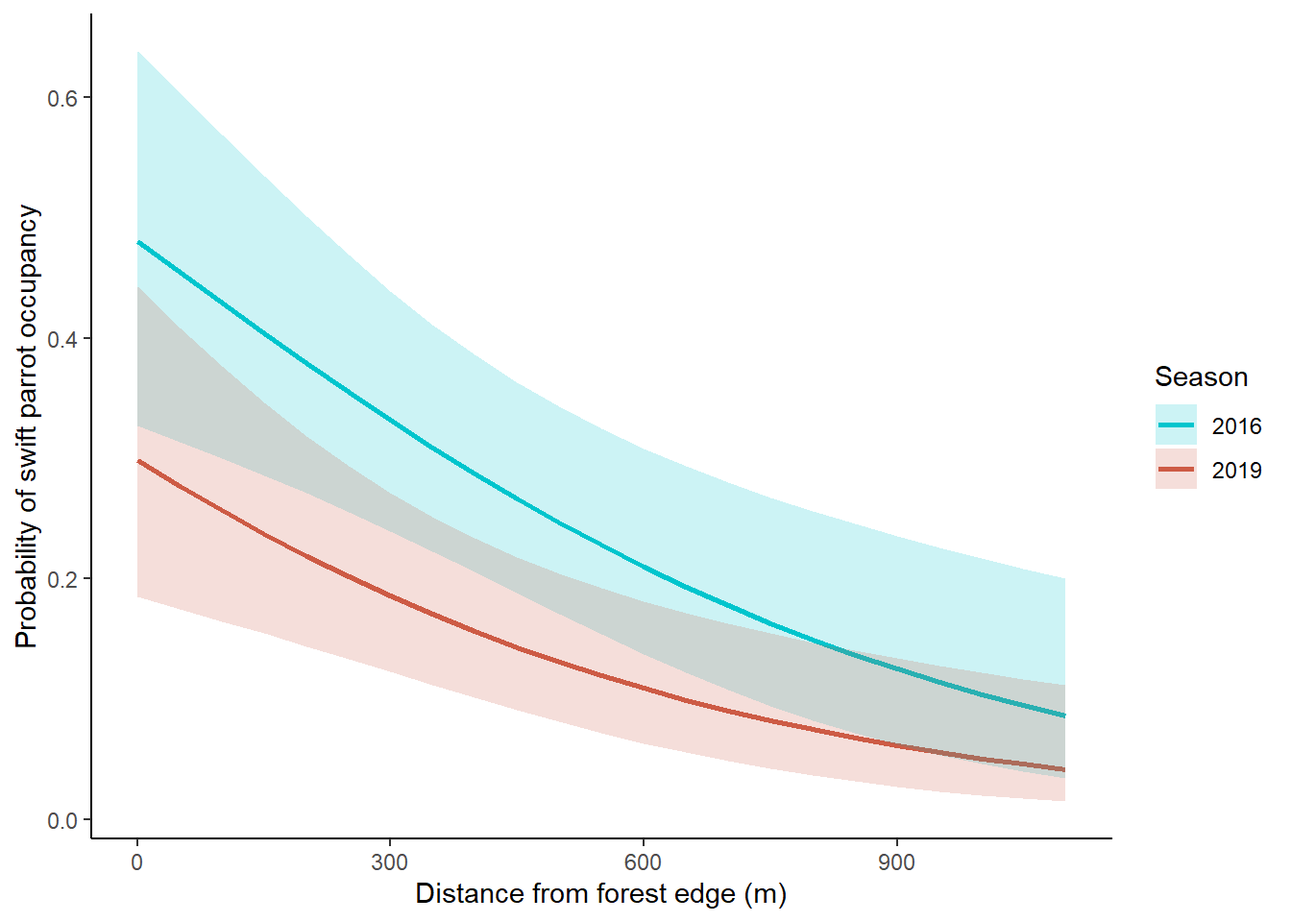
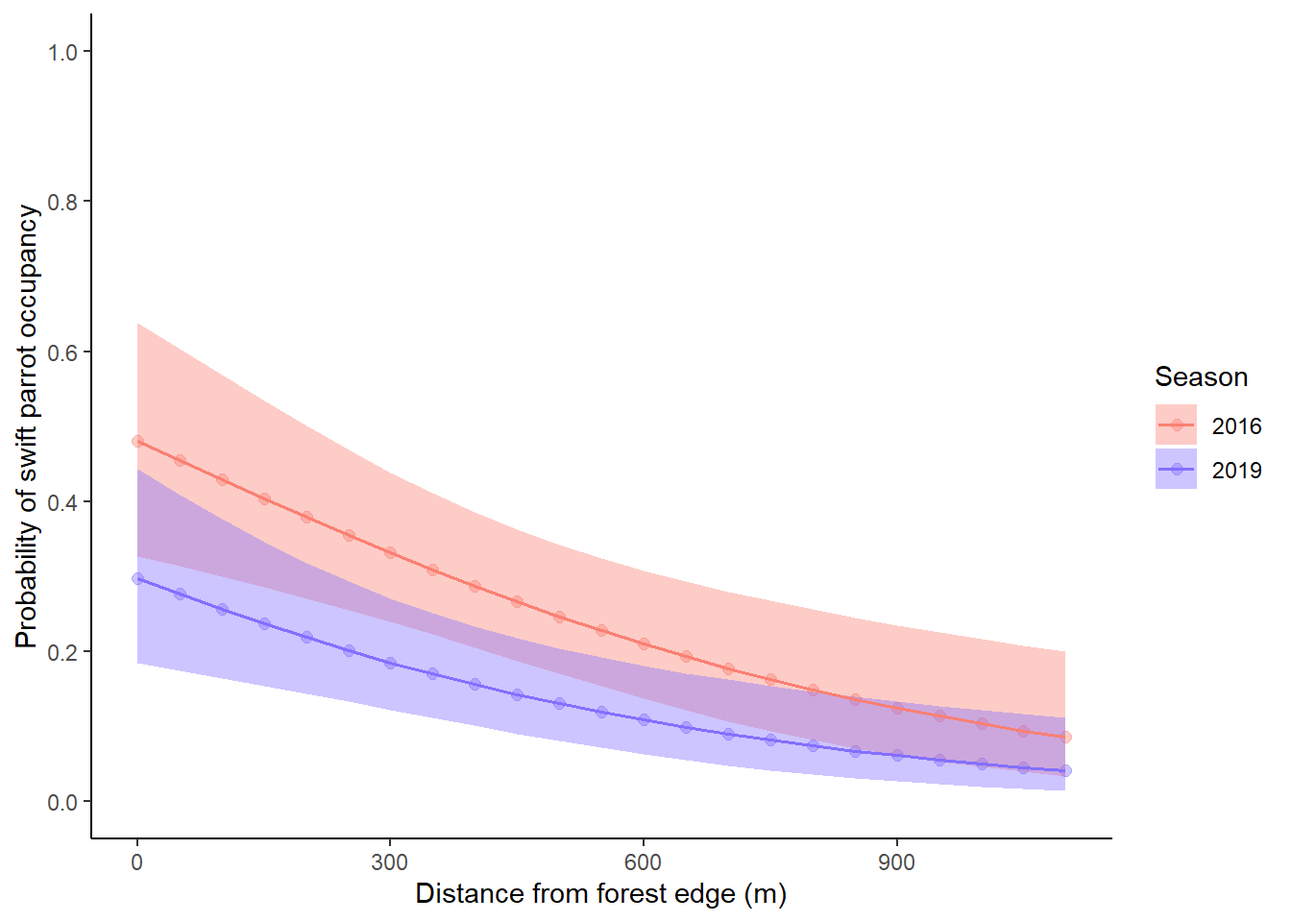
might have screwed something up.. had to restart rstudio. added intepretition and played with table outputs. fingers crossed.

diff --git a/code/ENVS-193DS_final.html b/code/ENVS-193DS_final.html
@@ -69,6 +69,10 @@ pre > code.sourceCode > span > a:first-child::before { text-decoration: underlin
 <script src="ENVS-193DS_final_files/libs/bootstrap/bootstrap.min.js"></script>
 <link href="ENVS-193DS_final_files/libs/bootstrap/bootstrap-icons.css" rel="stylesheet">
 <link href="ENVS-193DS_final_files/libs/bootstrap/bootstrap-1bc8a17f135ab3d594c857e9f48e611b.min.css" rel="stylesheet" append-hash="true" id="quarto-bootstrap" data-mode="light">
+<link href="ENVS-193DS_final_files/libs/tabwid-1.1.3/tabwid.css" rel="stylesheet">
+
+<script src="ENVS-193DS_final_files/libs/tabwid-1.1.3/tabwid.js"></script>
+
 
 
 </head>
@@ -103,9 +107,11 @@ pre > code.sourceCode > span > a:first-child::before { text-decoration: underlin
   </ul></li>
   <li><a href="#e.-run-the-models" id="toc-e.-run-the-models" class="nav-link" data-scroll-target="#e.-run-the-models">e. Run the models</a></li>
   <li><a href="#f.-check-the-diagnostics" id="toc-f.-check-the-diagnostics" class="nav-link" data-scroll-target="#f.-check-the-diagnostics">f.&nbsp;Check the diagnostics</a></li>
-  <li><a href="#e.-select-the-best-model" id="toc-e.-select-the-best-model" class="nav-link" data-scroll-target="#e.-select-the-best-model">e. Select the best model</a></li>
-  <li><a href="#visualize-the-model-predictions" id="toc-visualize-the-model-predictions" class="nav-link" data-scroll-target="#visualize-the-model-predictions">Visualize the model predictions</a></li>
-  <li><a href="#final-figure" id="toc-final-figure" class="nav-link" data-scroll-target="#final-figure">6. Final figure</a></li>
+  <li><a href="#g.-select-the-best-model" id="toc-g.-select-the-best-model" class="nav-link" data-scroll-target="#g.-select-the-best-model">g. Select the best model</a></li>
+  <li><a href="#h.-visualize-the-model-predictions" id="toc-h.-visualize-the-model-predictions" class="nav-link" data-scroll-target="#h.-visualize-the-model-predictions">h. Visualize the model predictions</a></li>
+  <li><a href="#i.-write-a-caption-for-your-figure." id="toc-i.-write-a-caption-for-your-figure." class="nav-link" data-scroll-target="#i.-write-a-caption-for-your-figure.">i. Write a caption for your figure.</a></li>
+  <li><a href="#j.-calculate-model-predictions" id="toc-j.-calculate-model-predictions" class="nav-link" data-scroll-target="#j.-calculate-model-predictions">j. Calculate model predictions</a></li>
+  <li><a href="#k.-intepret-your-results" id="toc-k.-intepret-your-results" class="nav-link" data-scroll-target="#k.-intepret-your-results">k. Intepret your results</a></li>
   </ul></li>
   </ul>
 </nav>
@@ -153,21 +159,23 @@ pre > code.sourceCode > span > a:first-child::before { text-decoration: underlin
 <span id="cb1-6"><a href="#cb1-6" aria-hidden="true" tabindex="-1"></a><span class="fu">library</span>(readxl)      <span class="co"># Read Excel files</span></span>
 <span id="cb1-7"><a href="#cb1-7" aria-hidden="true" tabindex="-1"></a><span class="fu">library</span>(scales)      <span class="co"># Customize axis labels</span></span>
 <span id="cb1-8"><a href="#cb1-8" aria-hidden="true" tabindex="-1"></a><span class="fu">library</span>(ggeffects)   <span class="co"># For model predictions</span></span>
-<span id="cb1-9"><a href="#cb1-9" aria-hidden="true" tabindex="-1"></a><span class="fu">library</span>(ggthemes)</span>
+<span id="cb1-9"><a href="#cb1-9" aria-hidden="true" tabindex="-1"></a><span class="fu">library</span>(ggthemes)    <span class="co"># For additional themes</span></span>
 <span id="cb1-10"><a href="#cb1-10" aria-hidden="true" tabindex="-1"></a><span class="fu">library</span>(flextable)   <span class="co"># Creates tables </span></span>
-<span id="cb1-11"><a href="#cb1-11" aria-hidden="true" tabindex="-1"></a><span class="fu">library</span>(rstatix)     <span class="co"># Easy statistical tests</span></span>
-<span id="cb1-12"><a href="#cb1-12" aria-hidden="true" tabindex="-1"></a><span class="fu">library</span>(effectsize)  <span class="co"># Calculate effect sizes</span></span>
-<span id="cb1-13"><a href="#cb1-13" aria-hidden="true" tabindex="-1"></a><span class="fu">library</span>(lubridate)   <span class="co"># To work with dates</span></span>
-<span id="cb1-14"><a href="#cb1-14" aria-hidden="true" tabindex="-1"></a><span class="fu">library</span>(paletteer)   <span class="co"># Color package</span></span>
-<span id="cb1-15"><a href="#cb1-15" aria-hidden="true" tabindex="-1"></a><span class="fu">library</span>(DHARMa)</span>
-<span id="cb1-16"><a href="#cb1-16" aria-hidden="true" tabindex="-1"></a><span class="fu">library</span>(MuMIn)  <span class="co"># model selection (be advisedL Warning message: package ‘MuMIn’ was built under R version 4.3.3 )</span></span>
-<span id="cb1-17"><a href="#cb1-17" aria-hidden="true" tabindex="-1"></a></span>
-<span id="cb1-18"><a href="#cb1-18" aria-hidden="true" tabindex="-1"></a></span>
-<span id="cb1-19"><a href="#cb1-19" aria-hidden="true" tabindex="-1"></a><span class="co"># --- sea surface temperature data ---</span></span>
+<span id="cb1-11"><a href="#cb1-11" aria-hidden="true" tabindex="-1"></a><span class="fu">library</span>(gtsummary)   <span class="co"># Summary tables</span></span>
+<span id="cb1-12"><a href="#cb1-12" aria-hidden="true" tabindex="-1"></a><span class="fu">library</span>(rstatix)     <span class="co"># Easy statistical tests</span></span>
+<span id="cb1-13"><a href="#cb1-13" aria-hidden="true" tabindex="-1"></a><span class="fu">library</span>(effectsize)  <span class="co"># Calculate effect sizes</span></span>
+<span id="cb1-14"><a href="#cb1-14" aria-hidden="true" tabindex="-1"></a><span class="fu">library</span>(lubridate)   <span class="co"># To work with dates</span></span>
+<span id="cb1-15"><a href="#cb1-15" aria-hidden="true" tabindex="-1"></a><span class="fu">library</span>(paletteer)   <span class="co"># Color package</span></span>
+<span id="cb1-16"><a href="#cb1-16" aria-hidden="true" tabindex="-1"></a><span class="fu">library</span>(DHARMa)      <span class="co"># Modeling</span></span>
+<span id="cb1-17"><a href="#cb1-17" aria-hidden="true" tabindex="-1"></a><span class="fu">library</span>(modelsummary)<span class="co"># Modeling multiple models</span></span>
+<span id="cb1-18"><a href="#cb1-18" aria-hidden="true" tabindex="-1"></a><span class="fu">library</span>(MuMIn)       <span class="co"># Model selection (be advisedL Warning message: package ‘MuMIn’ was built under R version 4.3.3 )</span></span>
+<span id="cb1-19"><a href="#cb1-19" aria-hidden="true" tabindex="-1"></a></span>
 <span id="cb1-20"><a href="#cb1-20" aria-hidden="true" tabindex="-1"></a></span>
-<span id="cb1-21"><a href="#cb1-21" aria-hidden="true" tabindex="-1"></a>sst <span class="ot">&lt;-</span> <span class="fu">read_csv</span>(<span class="fu">here</span>(<span class="st">"data"</span>, <span class="st">"sst_update2023.csv"</span>))  <span class="co"># SST data CSV file</span></span>
+<span id="cb1-21"><a href="#cb1-21" aria-hidden="true" tabindex="-1"></a><span class="co"># --- sea surface temperature data ---</span></span>
 <span id="cb1-22"><a href="#cb1-22" aria-hidden="true" tabindex="-1"></a></span>
-<span id="cb1-23"><a href="#cb1-23" aria-hidden="true" tabindex="-1"></a><span class="fu">str</span>(sst)</span></code><button title="Copy to Clipboard" class="code-copy-button"><i class="bi"></i></button></pre></div>
+<span id="cb1-23"><a href="#cb1-23" aria-hidden="true" tabindex="-1"></a>sst <span class="ot">&lt;-</span> <span class="fu">read_csv</span>(<span class="fu">here</span>(<span class="st">"data"</span>, <span class="st">"sst_update2023.csv"</span>))  <span class="co"># SST data CSV file</span></span>
+<span id="cb1-24"><a href="#cb1-24" aria-hidden="true" tabindex="-1"></a></span>
+<span id="cb1-25"><a href="#cb1-25" aria-hidden="true" tabindex="-1"></a><span class="fu">str</span>(sst)</span></code><button title="Copy to Clipboard" class="code-copy-button"><i class="bi"></i></button></pre></div>
 <div class="cell-output cell-output-stdout">
 <pre><code>spc_tbl_ [291,384 × 5] (S3: spec_tbl_df/tbl_df/tbl/data.frame)
  $ date     : Date[1:291384], format: "1982-01-01" "1982-01-01" ...
@@ -294,11 +302,11 @@ pre > code.sourceCode > span > a:first-child::before { text-decoration: underlin
 <pre><code># A tibble: 5 × 3
   year  month mean_monthly_sst
   &lt;fct&gt; &lt;ord&gt;            &lt;dbl&gt;
-1 2023  Jun               16.0
-2 2022  Oct               17.9
-3 2023  Nov               16.8
-4 2019  Feb               14.1
-5 2018  May               13.6</code></pre>
+1 2018  Jun               15.5
+2 2021  Jan               13.9
+3 2023  Apr               12.4
+4 2021  Aug               17.7
+5 2019  Mar               13.6</code></pre>
 </div>
 <div class="sourceCode cell-code" id="cb12"><pre class="sourceCode r code-with-copy"><code class="sourceCode r"><span id="cb12-1"><a href="#cb12-1" aria-hidden="true" tabindex="-1"></a><span class="fu">str</span>(sst_clean) <span class="co"># View structure of new df</span></span></code><button title="Copy to Clipboard" class="code-copy-button"><i class="bi"></i></button></pre></div>
 <div class="cell-output cell-output-stdout">
@@ -492,8 +500,8 @@ pre > code.sourceCode > span > a:first-child::before { text-decoration: underlin
 </div>
 </div>
 </section>
-<section id="e.-select-the-best-model" class="level2">
-<h2 class="anchored" data-anchor-id="e.-select-the-best-model">e. Select the best model</h2>
+<section id="g.-select-the-best-model" class="level2">
+<h2 class="anchored" data-anchor-id="g.-select-the-best-model">g. Select the best model</h2>
 <div class="cell">
 <div class="sourceCode cell-code" id="cb21"><pre class="sourceCode r code-with-copy"><code class="sourceCode r"><span id="cb21-1"><a href="#cb21-1" aria-hidden="true" tabindex="-1"></a><span class="co"># Calculate AIC for each model</span></span>
 <span id="cb21-2"><a href="#cb21-2" aria-hidden="true" tabindex="-1"></a>model_aic <span class="ot">&lt;-</span> <span class="fu">AIC</span>(model0,</span>
@@ -501,7 +509,7 @@ pre > code.sourceCode > span > a:first-child::before { text-decoration: underlin
 <span id="cb21-4"><a href="#cb21-4" aria-hidden="true" tabindex="-1"></a>                  model2, </span>
 <span id="cb21-5"><a href="#cb21-5" aria-hidden="true" tabindex="-1"></a>                  model3)</span>
 <span id="cb21-6"><a href="#cb21-6" aria-hidden="true" tabindex="-1"></a></span>
-<span id="cb21-7"><a href="#cb21-7" aria-hidden="true" tabindex="-1"></a><span class="co"># Print AIC table sorted by AIC (lowest first)</span></span>
+<span id="cb21-7"><a href="#cb21-7" aria-hidden="true" tabindex="-1"></a><span class="co"># AIC table</span></span>
 <span id="cb21-8"><a href="#cb21-8" aria-hidden="true" tabindex="-1"></a>model_aic</span></code><button title="Copy to Clipboard" class="code-copy-button"><i class="bi"></i></button></pre></div>
 <div class="cell-output cell-output-stdout">
 <pre><code>       df      AIC
@@ -511,42 +519,18 @@ model2  2 236.3208
 model3  2 229.6180</code></pre>
 </div>
 </div>
-<div class="cell">
-<div class="sourceCode cell-code" id="cb23"><pre class="sourceCode r code-with-copy"><code class="sourceCode r"><span id="cb23-1"><a href="#cb23-1" aria-hidden="true" tabindex="-1"></a><span class="co"># Show summary of best model</span></span>
-<span id="cb23-2"><a href="#cb23-2" aria-hidden="true" tabindex="-1"></a><span class="fu">summary</span>(model1)</span></code><button title="Copy to Clipboard" class="code-copy-button"><i class="bi"></i></button></pre></div>
-<div class="cell-output cell-output-stdout">
-<pre><code>
-Call:
-glm(formula = swift_parrot ~ season + edge_distance, family = "binomial", 
-    data = nest_boxes_clean)
-
-Coefficients:
-                Estimate Std. Error z value Pr(&gt;|z|)    
-(Intercept)   -0.0774902  0.3293209  -0.235 0.813974    
-season2019    -0.7791985  0.3390296  -2.298 0.021544 *  
-edge_distance -0.0020782  0.0006226  -3.338 0.000843 ***
----
-Signif. codes:  0 '***' 0.001 '**' 0.01 '*' 0.05 '.' 0.1 ' ' 1
-
-(Dispersion parameter for binomial family taken to be 1)
-
-    Null deviance: 236.81  on 226  degrees of freedom
-Residual deviance: 220.21  on 224  degrees of freedom
-AIC: 226.21
-
-Number of Fisher Scoring iterations: 4</code></pre>
-</div>
-</div>
 <p><strong>Interpretation</strong></p>
 <p>The best model, based on Akaike’s Information Criterion (AIC), includes both season and distance from the forest edge (model1) as predictors of Swift Parrot nest box occupancy. This model provides the best balance of signal (meaningful information) to noise (random variation).</p>
 </section>
-<section id="visualize-the-model-predictions" class="level2">
-<h2 class="anchored" data-anchor-id="visualize-the-model-predictions">Visualize the model predictions</h2>
+<section id="h.-visualize-the-model-predictions" class="level2">
+<h2 class="anchored" data-anchor-id="h.-visualize-the-model-predictions">h. Visualize the model predictions</h2>
 <div class="cell">
-<div class="sourceCode cell-code" id="cb25"><pre class="sourceCode r code-with-copy"><code class="sourceCode r"><span id="cb25-1"><a href="#cb25-1" aria-hidden="true" tabindex="-1"></a>model1_predictions <span class="ot">&lt;-</span> <span class="fu">ggpredict</span>(model1, <span class="at">terms =</span> <span class="fu">c</span>(<span class="st">"edge_distance"</span>, <span class="st">"season"</span>))</span>
-<span id="cb25-2"><a href="#cb25-2" aria-hidden="true" tabindex="-1"></a></span>
-<span id="cb25-3"><a href="#cb25-3" aria-hidden="true" tabindex="-1"></a></span>
-<span id="cb25-4"><a href="#cb25-4" aria-hidden="true" tabindex="-1"></a><span class="fu">print</span>(model1_predictions)</span></code><button title="Copy to Clipboard" class="code-copy-button"><i class="bi"></i></button></pre></div>
+<div class="sourceCode cell-code" id="cb23"><pre class="sourceCode r code-with-copy"><code class="sourceCode r"><span id="cb23-1"><a href="#cb23-1" aria-hidden="true" tabindex="-1"></a><span class="co"># Generate predicted values and confidence intervals from model1</span></span>
+<span id="cb23-2"><a href="#cb23-2" aria-hidden="true" tabindex="-1"></a>model1_predictions <span class="ot">&lt;-</span> <span class="fu">ggpredict</span>(model1, <span class="at">terms =</span> <span class="fu">c</span>(<span class="st">"edge_distance"</span>, <span class="st">"season"</span>))</span>
+<span id="cb23-3"><a href="#cb23-3" aria-hidden="true" tabindex="-1"></a></span>
+<span id="cb23-4"><a href="#cb23-4" aria-hidden="true" tabindex="-1"></a><span class="co"># View predictions data frame to inspect its structure and values</span></span>
+<span id="cb23-5"><a href="#cb23-5" aria-hidden="true" tabindex="-1"></a></span>
+<span id="cb23-6"><a href="#cb23-6" aria-hidden="true" tabindex="-1"></a>model1_predictions</span></code><button title="Copy to Clipboard" class="code-copy-button"><i class="bi"></i></button></pre></div>
 <div class="cell-output cell-output-stdout">
 <pre><code># Predicted probabilities of swift_parrot
 
@@ -573,34 +557,39 @@ edge_distance | Predicted |     95% CI
          1100 |      0.04 | 0.01, 0.11</code></pre>
 </div>
 </div>
-</section>
-<section id="final-figure" class="level2">
-<h2 class="anchored" data-anchor-id="final-figure">6. Final figure</h2>
 <div class="cell">
-<div class="sourceCode cell-code" id="cb27"><pre class="sourceCode r code-with-copy"><code class="sourceCode r"><span id="cb27-1"><a href="#cb27-1" aria-hidden="true" tabindex="-1"></a><span class="fu">ggplot</span>(<span class="at">data =</span> model1_predictions,</span>
-<span id="cb27-2"><a href="#cb27-2" aria-hidden="true" tabindex="-1"></a>       <span class="fu">aes</span>(<span class="at">x =</span> x, </span>
-<span id="cb27-3"><a href="#cb27-3" aria-hidden="true" tabindex="-1"></a>           <span class="at">y =</span> predicted, </span>
-<span id="cb27-4"><a href="#cb27-4" aria-hidden="true" tabindex="-1"></a>           <span class="at">color =</span> group, </span>
-<span id="cb27-5"><a href="#cb27-5" aria-hidden="true" tabindex="-1"></a>           <span class="at">fill =</span> group)) <span class="sc">+</span></span>
-<span id="cb27-6"><a href="#cb27-6" aria-hidden="true" tabindex="-1"></a>  <span class="fu">geom_line</span>(<span class="at">size =</span> <span class="dv">1</span>) <span class="sc">+</span></span>
-<span id="cb27-7"><a href="#cb27-7" aria-hidden="true" tabindex="-1"></a>  </span>
-<span id="cb27-8"><a href="#cb27-8" aria-hidden="true" tabindex="-1"></a>  <span class="fu">geom_ribbon</span>(<span class="fu">aes</span>(<span class="at">ymin =</span> conf.low,</span>
-<span id="cb27-9"><a href="#cb27-9" aria-hidden="true" tabindex="-1"></a>                  <span class="at">ymax =</span> conf.high), </span>
-<span id="cb27-10"><a href="#cb27-10" aria-hidden="true" tabindex="-1"></a>              <span class="at">alpha =</span> <span class="fl">0.2</span>, </span>
-<span id="cb27-11"><a href="#cb27-11" aria-hidden="true" tabindex="-1"></a>              <span class="at">color =</span> <span class="cn">NA</span>) <span class="sc">+</span></span>
-<span id="cb27-12"><a href="#cb27-12" aria-hidden="true" tabindex="-1"></a>  <span class="fu">labs</span>(<span class="at">x =</span> <span class="st">"Distance from forest edge (m)"</span>, </span>
-<span id="cb27-13"><a href="#cb27-13" aria-hidden="true" tabindex="-1"></a>       <span class="at">y =</span> <span class="st">"Probability of swift parrot occupancy"</span>,</span>
-<span id="cb27-14"><a href="#cb27-14" aria-hidden="true" tabindex="-1"></a>       <span class="at">color =</span> <span class="st">"Season"</span>, </span>
-<span id="cb27-15"><a href="#cb27-15" aria-hidden="true" tabindex="-1"></a>       <span class="at">fill =</span> <span class="st">"Season"</span>) <span class="sc">+</span></span>
-<span id="cb27-16"><a href="#cb27-16" aria-hidden="true" tabindex="-1"></a>  <span class="fu">theme_minimal</span>() <span class="sc">+</span></span>
-<span id="cb27-17"><a href="#cb27-17" aria-hidden="true" tabindex="-1"></a>  <span class="fu">scale_color_manual</span>(<span class="at">values =</span> <span class="fu">c</span>(<span class="st">"2016"</span> <span class="ot">=</span> <span class="st">"turquoise3"</span>, <span class="st">"2019"</span> <span class="ot">=</span> <span class="st">"coral3"</span>)) <span class="sc">+</span></span>
-<span id="cb27-18"><a href="#cb27-18" aria-hidden="true" tabindex="-1"></a>  <span class="fu">scale_fill_manual</span>(<span class="at">values =</span> <span class="fu">c</span>(<span class="st">"2016"</span> <span class="ot">=</span> <span class="st">"turquoise3"</span>, <span class="st">"2019"</span> <span class="ot">=</span> <span class="st">"coral3"</span>)) <span class="sc">+</span></span>
-<span id="cb27-19"><a href="#cb27-19" aria-hidden="true" tabindex="-1"></a>   <span class="co"># Remove gridlines for a cleaner look</span></span>
-<span id="cb27-20"><a href="#cb27-20" aria-hidden="true" tabindex="-1"></a>  <span class="fu">theme_classic</span>() <span class="sc">+</span></span>
-<span id="cb27-21"><a href="#cb27-21" aria-hidden="true" tabindex="-1"></a>  <span class="fu">theme</span>(</span>
-<span id="cb27-22"><a href="#cb27-22" aria-hidden="true" tabindex="-1"></a>    <span class="at">panel.grid.major =</span> <span class="fu">element_blank</span>(),</span>
-<span id="cb27-23"><a href="#cb27-23" aria-hidden="true" tabindex="-1"></a>    <span class="at">panel.grid.minor =</span> <span class="fu">element_blank</span>()</span>
-<span id="cb27-24"><a href="#cb27-24" aria-hidden="true" tabindex="-1"></a>  )</span></code><button title="Copy to Clipboard" class="code-copy-button"><i class="bi"></i></button></pre></div>
+<div class="sourceCode cell-code" id="cb25"><pre class="sourceCode r code-with-copy"><code class="sourceCode r"><span id="cb25-1"><a href="#cb25-1" aria-hidden="true" tabindex="-1"></a><span class="fu">ggplot</span>(<span class="at">data =</span> model1_predictions,  <span class="co"># Use model predictions data frame</span></span>
+<span id="cb25-2"><a href="#cb25-2" aria-hidden="true" tabindex="-1"></a>       <span class="fu">aes</span>(<span class="at">x =</span> x,                  <span class="co"># x-axis: distance from forest edge</span></span>
+<span id="cb25-3"><a href="#cb25-3" aria-hidden="true" tabindex="-1"></a>           <span class="at">y =</span> predicted,          <span class="co"># y-axis: predicted occupancy probability</span></span>
+<span id="cb25-4"><a href="#cb25-4" aria-hidden="true" tabindex="-1"></a>           <span class="at">color =</span> group,          <span class="co"># Line color mapped to season (group)</span></span>
+<span id="cb25-5"><a href="#cb25-5" aria-hidden="true" tabindex="-1"></a>           <span class="at">fill =</span> group)) <span class="sc">+</span>        <span class="co"># Fill color (for ribbons) mapped to season</span></span>
+<span id="cb25-6"><a href="#cb25-6" aria-hidden="true" tabindex="-1"></a></span>
+<span id="cb25-7"><a href="#cb25-7" aria-hidden="true" tabindex="-1"></a>  <span class="co"># Add semi-transparent points at predicted values</span></span>
+<span id="cb25-8"><a href="#cb25-8" aria-hidden="true" tabindex="-1"></a>  <span class="fu">geom_point</span>(<span class="at">size =</span> <span class="dv">2</span>, <span class="at">alpha =</span> <span class="fl">0.4</span>) <span class="sc">+</span>  </span>
+<span id="cb25-9"><a href="#cb25-9" aria-hidden="true" tabindex="-1"></a>  </span>
+<span id="cb25-10"><a href="#cb25-10" aria-hidden="true" tabindex="-1"></a>  <span class="co"># Add shaded confidence interval ribbon for each season</span></span>
+<span id="cb25-11"><a href="#cb25-11" aria-hidden="true" tabindex="-1"></a>  <span class="fu">geom_ribbon</span>(<span class="at">data =</span> model1_predictions,  </span>
+<span id="cb25-12"><a href="#cb25-12" aria-hidden="true" tabindex="-1"></a>              <span class="fu">aes</span>(<span class="at">ymin =</span> conf.low, <span class="at">ymax =</span> conf.high),  <span class="co"># Confidence bounds</span></span>
+<span id="cb25-13"><a href="#cb25-13" aria-hidden="true" tabindex="-1"></a>              <span class="at">alpha =</span> <span class="fl">0.4</span>, <span class="at">color =</span> <span class="cn">NA</span>) <span class="sc">+</span>  <span class="co"># No border around ribbons</span></span>
+<span id="cb25-14"><a href="#cb25-14" aria-hidden="true" tabindex="-1"></a>  </span>
+<span id="cb25-15"><a href="#cb25-15" aria-hidden="true" tabindex="-1"></a>  <span class="co"># Add prediction lines for each season</span></span>
+<span id="cb25-16"><a href="#cb25-16" aria-hidden="true" tabindex="-1"></a>  <span class="fu">geom_line</span>(<span class="at">size =</span> <span class="fl">0.7</span>) <span class="sc">+</span>  </span>
+<span id="cb25-17"><a href="#cb25-17" aria-hidden="true" tabindex="-1"></a></span>
+<span id="cb25-18"><a href="#cb25-18" aria-hidden="true" tabindex="-1"></a>  <span class="co"># Add axis labels and legend titles</span></span>
+<span id="cb25-19"><a href="#cb25-19" aria-hidden="true" tabindex="-1"></a>  <span class="fu">labs</span>(<span class="at">x =</span> <span class="st">"Distance from forest edge (m)"</span>,   </span>
+<span id="cb25-20"><a href="#cb25-20" aria-hidden="true" tabindex="-1"></a>       <span class="at">y =</span> <span class="st">"Probability of swift parrot occupancy"</span>,  </span>
+<span id="cb25-21"><a href="#cb25-21" aria-hidden="true" tabindex="-1"></a>       <span class="at">color =</span> <span class="st">"Season"</span>,                      </span>
+<span id="cb25-22"><a href="#cb25-22" aria-hidden="true" tabindex="-1"></a>       <span class="at">fill =</span> <span class="st">"Season"</span>) <span class="sc">+</span>                     </span>
+<span id="cb25-23"><a href="#cb25-23" aria-hidden="true" tabindex="-1"></a></span>
+<span id="cb25-24"><a href="#cb25-24" aria-hidden="true" tabindex="-1"></a>  <span class="co"># Manually set custom colors for seasons (to match paper styling)</span></span>
+<span id="cb25-25"><a href="#cb25-25" aria-hidden="true" tabindex="-1"></a>  <span class="fu">scale_color_manual</span>(<span class="at">values =</span> <span class="fu">c</span>(<span class="st">"2016"</span> <span class="ot">=</span> <span class="st">"salmon"</span>, <span class="st">"2019"</span> <span class="ot">=</span> <span class="st">"slateblue1"</span>)) <span class="sc">+</span>  </span>
+<span id="cb25-26"><a href="#cb25-26" aria-hidden="true" tabindex="-1"></a>  <span class="fu">scale_fill_manual</span>(<span class="at">values =</span> <span class="fu">c</span>(<span class="st">"2016"</span> <span class="ot">=</span> <span class="st">"salmon"</span>, <span class="st">"2019"</span> <span class="ot">=</span> <span class="st">"slateblue1"</span>)) <span class="sc">+</span>   </span>
+<span id="cb25-27"><a href="#cb25-27" aria-hidden="true" tabindex="-1"></a></span>
+<span id="cb25-28"><a href="#cb25-28" aria-hidden="true" tabindex="-1"></a>  <span class="co"># Set y-axis limits and create evenly spaced tick marks</span></span>
+<span id="cb25-29"><a href="#cb25-29" aria-hidden="true" tabindex="-1"></a>  <span class="fu">scale_y_continuous</span>(<span class="at">limits =</span> <span class="fu">c</span>(<span class="dv">0</span>, <span class="dv">1</span>), <span class="at">breaks =</span> <span class="fu">seq</span>(<span class="dv">0</span>, <span class="dv">1</span>, <span class="fl">0.2</span>)) <span class="sc">+</span>  </span>
+<span id="cb25-30"><a href="#cb25-30" aria-hidden="true" tabindex="-1"></a></span>
+<span id="cb25-31"><a href="#cb25-31" aria-hidden="true" tabindex="-1"></a>  <span class="co"># Use a clean, minimal theme without gridlines</span></span>
+<span id="cb25-32"><a href="#cb25-32" aria-hidden="true" tabindex="-1"></a>  <span class="fu">theme_classic</span>()</span></code><button title="Copy to Clipboard" class="code-copy-button"><i class="bi"></i></button></pre></div>
 <div class="cell-output-display">
 <div>
 <figure class="figure">
@@ -609,6 +598,46 @@ edge_distance | Predicted |     95% CI
 </div>
 </div>
 </div>
+</section>
+<section id="i.-write-a-caption-for-your-figure." class="level2">
+<h2 class="anchored" data-anchor-id="i.-write-a-caption-for-your-figure.">i. Write a caption for your figure.</h2>
+<p><strong>Figure 1.</strong> Predicted probabilities and 95% confidence intervals from the best model of nest box occupancy by Swift Parrots, the target species of the restoration effort. The plot shows how the probability of occupancy changes with distance from the forest edge and between study years (2016 and 2019). Occupancy probability decreases with increasing distance from the forest edge and from 2016 to 2019. <em>Data source:</em> Stojanovic et al.&nbsp;(2021), Restoration Ecology (DOI: 10.1111/rec.13319)</p>
+</section>
+<section id="j.-calculate-model-predictions" class="level2">
+<h2 class="anchored" data-anchor-id="j.-calculate-model-predictions">j. Calculate model predictions</h2>
+<div class="cell">
+<div class="sourceCode cell-code" id="cb26"><pre class="sourceCode r code-with-copy"><code class="sourceCode r"><span id="cb26-1"><a href="#cb26-1" aria-hidden="true" tabindex="-1"></a><span class="co"># Predicted probabilities at 0 m and 900 m for each season</span></span>
+<span id="cb26-2"><a href="#cb26-2" aria-hidden="true" tabindex="-1"></a></span>
+<span id="cb26-3"><a href="#cb26-3" aria-hidden="true" tabindex="-1"></a>predictions_specific <span class="ot">&lt;-</span> <span class="fu">ggpredict</span>(model1, </span>
+<span id="cb26-4"><a href="#cb26-4" aria-hidden="true" tabindex="-1"></a>                                  <span class="at">terms =</span> <span class="fu">c</span>(<span class="st">"edge_distance [0,900]"</span>, <span class="st">"season"</span>))</span>
+<span id="cb26-5"><a href="#cb26-5" aria-hidden="true" tabindex="-1"></a></span>
+<span id="cb26-6"><a href="#cb26-6" aria-hidden="true" tabindex="-1"></a> </span>
+<span id="cb26-7"><a href="#cb26-7" aria-hidden="true" tabindex="-1"></a>preds_table <span class="ot">&lt;-</span> <span class="fu">as.data.frame</span>(predictions_specific) <span class="sc">|&gt;</span> <span class="co"># Convert to df</span></span>
+<span id="cb26-8"><a href="#cb26-8" aria-hidden="true" tabindex="-1"></a> <span class="fu">rename</span>(           <span class="co"># Rename columns</span></span>
+<span id="cb26-9"><a href="#cb26-9" aria-hidden="true" tabindex="-1"></a>    <span class="st">`</span><span class="at">Edge Distance (m)</span><span class="st">`</span> <span class="ot">=</span> x,</span>
+<span id="cb26-10"><a href="#cb26-10" aria-hidden="true" tabindex="-1"></a>    <span class="at">Season =</span> group,</span>
+<span id="cb26-11"><a href="#cb26-11" aria-hidden="true" tabindex="-1"></a>    <span class="st">`</span><span class="at">Predicted Probability</span><span class="st">`</span> <span class="ot">=</span> predicted,</span>
+<span id="cb26-12"><a href="#cb26-12" aria-hidden="true" tabindex="-1"></a>    <span class="st">'Standard Error'</span> <span class="ot">=</span> std.error,</span>
+<span id="cb26-13"><a href="#cb26-13" aria-hidden="true" tabindex="-1"></a>    <span class="st">`</span><span class="at">95% CI Lower</span><span class="st">`</span> <span class="ot">=</span> conf.low,</span>
+<span id="cb26-14"><a href="#cb26-14" aria-hidden="true" tabindex="-1"></a>    <span class="st">`</span><span class="at">95% CI Upper</span><span class="st">`</span> <span class="ot">=</span> conf.high</span>
+<span id="cb26-15"><a href="#cb26-15" aria-hidden="true" tabindex="-1"></a>  ) <span class="sc">|&gt;</span> </span>
+<span id="cb26-16"><a href="#cb26-16" aria-hidden="true" tabindex="-1"></a>   <span class="fu">mutate</span>(<span class="fu">across</span>(<span class="fu">where</span>(is.numeric), <span class="sc">~</span> <span class="fu">round</span>(.x, <span class="dv">3</span>)))  <span class="co"># Round to 3 decimals</span></span>
+<span id="cb26-17"><a href="#cb26-17" aria-hidden="true" tabindex="-1"></a></span>
+<span id="cb26-18"><a href="#cb26-18" aria-hidden="true" tabindex="-1"></a></span>
+<span id="cb26-19"><a href="#cb26-19" aria-hidden="true" tabindex="-1"></a><span class="co"># Create flextable </span></span>
+<span id="cb26-20"><a href="#cb26-20" aria-hidden="true" tabindex="-1"></a></span>
+<span id="cb26-21"><a href="#cb26-21" aria-hidden="true" tabindex="-1"></a><span class="fu">flextable</span>(preds_table) <span class="sc">|&gt;</span></span>
+<span id="cb26-22"><a href="#cb26-22" aria-hidden="true" tabindex="-1"></a>  <span class="fu">set_caption</span>(<span class="st">"Table 1. Predicted probabilities of Swift Parrot nest box occupancy at 0 m and 900 m from forest edge by season."</span>) <span class="sc">|&gt;</span>  <span class="co"># Add title</span></span>
+<span id="cb26-23"><a href="#cb26-23" aria-hidden="true" tabindex="-1"></a>  <span class="fu">autofit</span>() <span class="co"># Fits nicer</span></span></code><button title="Copy to Clipboard" class="code-copy-button"><i class="bi"></i></button></pre></div>
+<div class="cell-output-display">
+<div class="tabwid"><style>.cl-29e4a824{}.cl-29dc22ee{font-family:'Arial';font-size:11pt;font-weight:normal;font-style:normal;text-decoration:none;color:rgba(0, 0, 0, 1.00);background-color:transparent;}.cl-29df938e{margin:0;text-align:right;border-bottom: 0 solid rgba(0, 0, 0, 1.00);border-top: 0 solid rgba(0, 0, 0, 1.00);border-left: 0 solid rgba(0, 0, 0, 1.00);border-right: 0 solid rgba(0, 0, 0, 1.00);padding-bottom:5pt;padding-top:5pt;padding-left:5pt;padding-right:5pt;line-height: 1;background-color:transparent;}.cl-29df9398{margin:0;text-align:left;border-bottom: 0 solid rgba(0, 0, 0, 1.00);border-top: 0 solid rgba(0, 0, 0, 1.00);border-left: 0 solid rgba(0, 0, 0, 1.00);border-right: 0 solid rgba(0, 0, 0, 1.00);padding-bottom:5pt;padding-top:5pt;padding-left:5pt;padding-right:5pt;line-height: 1;background-color:transparent;}.cl-29dfb1f2{width:1.55in;background-color:transparent;vertical-align: middle;border-bottom: 1.5pt solid rgba(102, 102, 102, 1.00);border-top: 1.5pt solid rgba(102, 102, 102, 1.00);border-left: 0 solid rgba(0, 0, 0, 1.00);border-right: 0 solid rgba(0, 0, 0, 1.00);margin-bottom:0;margin-top:0;margin-left:0;margin-right:0;}.cl-29dfb1fc{width:1.686in;background-color:transparent;vertical-align: middle;border-bottom: 1.5pt solid rgba(102, 102, 102, 1.00);border-top: 1.5pt solid rgba(102, 102, 102, 1.00);border-left: 0 solid rgba(0, 0, 0, 1.00);border-right: 0 solid rgba(0, 0, 0, 1.00);margin-bottom:0;margin-top:0;margin-left:0;margin-right:0;}.cl-29dfb1fd{width:1.287in;background-color:transparent;vertical-align: middle;border-bottom: 1.5pt solid rgba(102, 102, 102, 1.00);border-top: 1.5pt solid rgba(102, 102, 102, 1.00);border-left: 0 solid rgba(0, 0, 0, 1.00);border-right: 0 solid rgba(0, 0, 0, 1.00);margin-bottom:0;margin-top:0;margin-left:0;margin-right:0;}.cl-29dfb1fe{width:1.245in;background-color:transparent;vertical-align: middle;border-bottom: 1.5pt solid rgba(102, 102, 102, 1.00);border-top: 1.5pt solid rgba(102, 102, 102, 1.00);border-left: 0 solid rgba(0, 0, 0, 1.00);border-right: 0 solid rgba(0, 0, 0, 1.00);margin-bottom:0;margin-top:0;margin-left:0;margin-right:0;}.cl-29dfb206{width:0.803in;background-color:transparent;vertical-align: middle;border-bottom: 1.5pt solid rgba(102, 102, 102, 1.00);border-top: 1.5pt solid rgba(102, 102, 102, 1.00);border-left: 0 solid rgba(0, 0, 0, 1.00);border-right: 0 solid rgba(0, 0, 0, 1.00);margin-bottom:0;margin-top:0;margin-left:0;margin-right:0;}.cl-29dfb210{width:1.55in;background-color:transparent;vertical-align: middle;border-bottom: 0 solid rgba(0, 0, 0, 1.00);border-top: 0 solid rgba(0, 0, 0, 1.00);border-left: 0 solid rgba(0, 0, 0, 1.00);border-right: 0 solid rgba(0, 0, 0, 1.00);margin-bottom:0;margin-top:0;margin-left:0;margin-right:0;}.cl-29dfb21a{width:1.686in;background-color:transparent;vertical-align: middle;border-bottom: 0 solid rgba(0, 0, 0, 1.00);border-top: 0 solid rgba(0, 0, 0, 1.00);border-left: 0 solid rgba(0, 0, 0, 1.00);border-right: 0 solid rgba(0, 0, 0, 1.00);margin-bottom:0;margin-top:0;margin-left:0;margin-right:0;}.cl-29dfb21b{width:1.287in;background-color:transparent;vertical-align: middle;border-bottom: 0 solid rgba(0, 0, 0, 1.00);border-top: 0 solid rgba(0, 0, 0, 1.00);border-left: 0 solid rgba(0, 0, 0, 1.00);border-right: 0 solid rgba(0, 0, 0, 1.00);margin-bottom:0;margin-top:0;margin-left:0;margin-right:0;}.cl-29dfb21c{width:1.245in;background-color:transparent;vertical-align: middle;border-bottom: 0 solid rgba(0, 0, 0, 1.00);border-top: 0 solid rgba(0, 0, 0, 1.00);border-left: 0 solid rgba(0, 0, 0, 1.00);border-right: 0 solid rgba(0, 0, 0, 1.00);margin-bottom:0;margin-top:0;margin-left:0;margin-right:0;}.cl-29dfb21d{width:0.803in;background-color:transparent;vertical-align: middle;border-bottom: 0 solid rgba(0, 0, 0, 1.00);border-top: 0 solid rgba(0, 0, 0, 1.00);border-left: 0 solid rgba(0, 0, 0, 1.00);border-right: 0 solid rgba(0, 0, 0, 1.00);margin-bottom:0;margin-top:0;margin-left:0;margin-right:0;}.cl-29dfb224{width:1.55in;background-color:transparent;vertical-align: middle;border-bottom: 1.5pt solid rgba(102, 102, 102, 1.00);border-top: 0 solid rgba(0, 0, 0, 1.00);border-left: 0 solid rgba(0, 0, 0, 1.00);border-right: 0 solid rgba(0, 0, 0, 1.00);margin-bottom:0;margin-top:0;margin-left:0;margin-right:0;}.cl-29dfb225{width:1.686in;background-color:transparent;vertical-align: middle;border-bottom: 1.5pt solid rgba(102, 102, 102, 1.00);border-top: 0 solid rgba(0, 0, 0, 1.00);border-left: 0 solid rgba(0, 0, 0, 1.00);border-right: 0 solid rgba(0, 0, 0, 1.00);margin-bottom:0;margin-top:0;margin-left:0;margin-right:0;}.cl-29dfb22e{width:1.287in;background-color:transparent;vertical-align: middle;border-bottom: 1.5pt solid rgba(102, 102, 102, 1.00);border-top: 0 solid rgba(0, 0, 0, 1.00);border-left: 0 solid rgba(0, 0, 0, 1.00);border-right: 0 solid rgba(0, 0, 0, 1.00);margin-bottom:0;margin-top:0;margin-left:0;margin-right:0;}.cl-29dfb22f{width:1.245in;background-color:transparent;vertical-align: middle;border-bottom: 1.5pt solid rgba(102, 102, 102, 1.00);border-top: 0 solid rgba(0, 0, 0, 1.00);border-left: 0 solid rgba(0, 0, 0, 1.00);border-right: 0 solid rgba(0, 0, 0, 1.00);margin-bottom:0;margin-top:0;margin-left:0;margin-right:0;}.cl-29dfb230{width:0.803in;background-color:transparent;vertical-align: middle;border-bottom: 1.5pt solid rgba(102, 102, 102, 1.00);border-top: 0 solid rgba(0, 0, 0, 1.00);border-left: 0 solid rgba(0, 0, 0, 1.00);border-right: 0 solid rgba(0, 0, 0, 1.00);margin-bottom:0;margin-top:0;margin-left:0;margin-right:0;}</style><table data-quarto-disable-processing="true" class="cl-29e4a824"><thead><tr style="overflow-wrap:break-word;"><th class="cl-29dfb1f2"><p class="cl-29df938e"><span class="cl-29dc22ee">Edge Distance (m)</span></p></th><th class="cl-29dfb1fc"><p class="cl-29df938e"><span class="cl-29dc22ee">Predicted Probability</span></p></th><th class="cl-29dfb1fd"><p class="cl-29df938e"><span class="cl-29dc22ee">Standard Error</span></p></th><th class="cl-29dfb1fe"><p class="cl-29df938e"><span class="cl-29dc22ee">95% CI Lower</span></p></th><th class="cl-29dfb1fe"><p class="cl-29df938e"><span class="cl-29dc22ee">95% CI Upper</span></p></th><th class="cl-29dfb206"><p class="cl-29df9398"><span class="cl-29dc22ee">Season</span></p></th></tr></thead><tbody><tr style="overflow-wrap:break-word;"><td class="cl-29dfb210"><p class="cl-29df938e"><span class="cl-29dc22ee">0</span></p></td><td class="cl-29dfb21a"><p class="cl-29df938e"><span class="cl-29dc22ee">0.481</span></p></td><td class="cl-29dfb21b"><p class="cl-29df938e"><span class="cl-29dc22ee">0.329</span></p></td><td class="cl-29dfb21c"><p class="cl-29df938e"><span class="cl-29dc22ee">0.327</span></p></td><td class="cl-29dfb21c"><p class="cl-29df938e"><span class="cl-29dc22ee">0.638</span></p></td><td class="cl-29dfb21d"><p class="cl-29df9398"><span class="cl-29dc22ee">2016</span></p></td></tr><tr style="overflow-wrap:break-word;"><td class="cl-29dfb210"><p class="cl-29df938e"><span class="cl-29dc22ee">0</span></p></td><td class="cl-29dfb21a"><p class="cl-29df938e"><span class="cl-29dc22ee">0.298</span></p></td><td class="cl-29dfb21b"><p class="cl-29df938e"><span class="cl-29dc22ee">0.321</span></p></td><td class="cl-29dfb21c"><p class="cl-29df938e"><span class="cl-29dc22ee">0.185</span></p></td><td class="cl-29dfb21c"><p class="cl-29df938e"><span class="cl-29dc22ee">0.443</span></p></td><td class="cl-29dfb21d"><p class="cl-29df9398"><span class="cl-29dc22ee">2019</span></p></td></tr><tr style="overflow-wrap:break-word;"><td class="cl-29dfb210"><p class="cl-29df938e"><span class="cl-29dc22ee">900</span></p></td><td class="cl-29dfb21a"><p class="cl-29df938e"><span class="cl-29dc22ee">0.125</span></p></td><td class="cl-29dfb21b"><p class="cl-29df938e"><span class="cl-29dc22ee">0.393</span></p></td><td class="cl-29dfb21c"><p class="cl-29df938e"><span class="cl-29dc22ee">0.062</span></p></td><td class="cl-29dfb21c"><p class="cl-29df938e"><span class="cl-29dc22ee">0.235</span></p></td><td class="cl-29dfb21d"><p class="cl-29df9398"><span class="cl-29dc22ee">2016</span></p></td></tr><tr style="overflow-wrap:break-word;"><td class="cl-29dfb224"><p class="cl-29df938e"><span class="cl-29dc22ee">900</span></p></td><td class="cl-29dfb225"><p class="cl-29df938e"><span class="cl-29dc22ee">0.061</span></p></td><td class="cl-29dfb22e"><p class="cl-29df938e"><span class="cl-29dc22ee">0.437</span></p></td><td class="cl-29dfb22f"><p class="cl-29df938e"><span class="cl-29dc22ee">0.027</span></p></td><td class="cl-29dfb22f"><p class="cl-29df938e"><span class="cl-29dc22ee">0.134</span></p></td><td class="cl-29dfb230"><p class="cl-29df9398"><span class="cl-29dc22ee">2019</span></p></td></tr></tbody></table></div>
+</div>
+</div>
+</section>
+<section id="k.-intepret-your-results" class="level2">
+<h2 class="anchored" data-anchor-id="k.-intepret-your-results">k. Intepret your results</h2>
+<p>Swift Parrots are more likely to occupy nest boxes located closer to the forest edge and showed reduced occupancy in 2019 compared to 2016 (see <em>Figure 1</em> and <em>Table 1</em>). For every 1-meter increase in distance from the forest edge, the odds of occupancy decrease by a factor of 0.998 (95% CI [1.00, 1.00], <em>p</em> &lt; 0.001). At 0 meters, the predicted probability of occupancy was 0.481 in 2016 and 0.298 in 2019, decreasing to 0.125 and 0.061, respectively, at 900 meters.</p>
+<p>These patterns suggest that the declining occupancy of Swift Parrots may be driven by increasing competition for nesting sites, particularly from invasive species such as starlings and tree martins, consistent with previous findings reported in the study.</p>
 </section>
 </section>
 

diff --git a/code/ENVS-193DS_final_files/libs/tabwid-1.1.3/tabwid.js b/code/ENVS-193DS_final_files/libs/tabwid-1.1.3/tabwid.js
@@ -1,0 +1,31 @@
+document.addEventListener("DOMContentLoaded", function(event) {
+  var els = document.querySelectorAll(".tabwid");
+  var tabwid_link = document.querySelector('link[href*="tabwid.css"]')
+  if (tabwid_link === null) {
+    const tabwid_styles = document.evaluate("//style[contains(., 'tabwid')]", document, null, XPathResult.ANY_TYPE, null );
+    tabwid_link = tabwid_styles.iterateNext();
+  }
+
+  Array.prototype.forEach.call(els, function(template) {
+      const dest = document.createElement("div");
+      template.parentNode.insertBefore(dest, template.nextSibling)
+      dest.setAttribute("class", "flextable-shadow-host");
+      const fantome = dest.attachShadow({mode: 'open'});
+      fantome.appendChild(template);
+      if (tabwid_link !== null) {
+        fantome.appendChild(tabwid_link.cloneNode(true));
+      }
+  });
+
+  const shadowHosts = document.querySelectorAll('.flextable-shadow-host:not(:has(div > table.no-shadow-dom))');
+  shadowHosts.forEach(host => {
+    if (host.shadowRoot) {
+      const spanElements = host.shadowRoot.querySelector('div > table > caption > span[id]');
+      if (spanElements) {
+        const id = spanElements.getAttribute("id");
+        host.setAttribute("id", id);
+      }
+    }
+  });
+
+});

diff --git a/code/ENVS-193DS_final_files/libs/tabwid-1.1.3/tabwid.css b/code/ENVS-193DS_final_files/libs/tabwid-1.1.3/tabwid.css
@@ -1,0 +1,42 @@
+.tabwid {
+  font-size: initial;
+  padding-bottom: 1em;
+}
+
+.tabwid table{
+  border-spacing:0px !important;
+  border-collapse:collapse;
+  line-height:1;
+  margin-left:auto;
+  margin-right:auto;
+  border-width: 0;
+  border-color: transparent;
+  caption-side: top;
+}
+.tabwid-caption-bottom table{
+  caption-side: bottom;
+}
+.tabwid_left table{
+  margin-left:0;
+}
+.tabwid_right table{
+  margin-right:0;
+}
+.tabwid td, .tabwid th {
+    padding: 0;
+}
+.tabwid a {
+  text-decoration: none;
+}
+.tabwid thead {
+    background-color: transparent;
+}
+.tabwid tfoot {
+    background-color: transparent;
+}
+.tabwid table tr {
+background-color: transparent;
+}
+.katex-display {
+    margin: 0 0 !important;
+}
